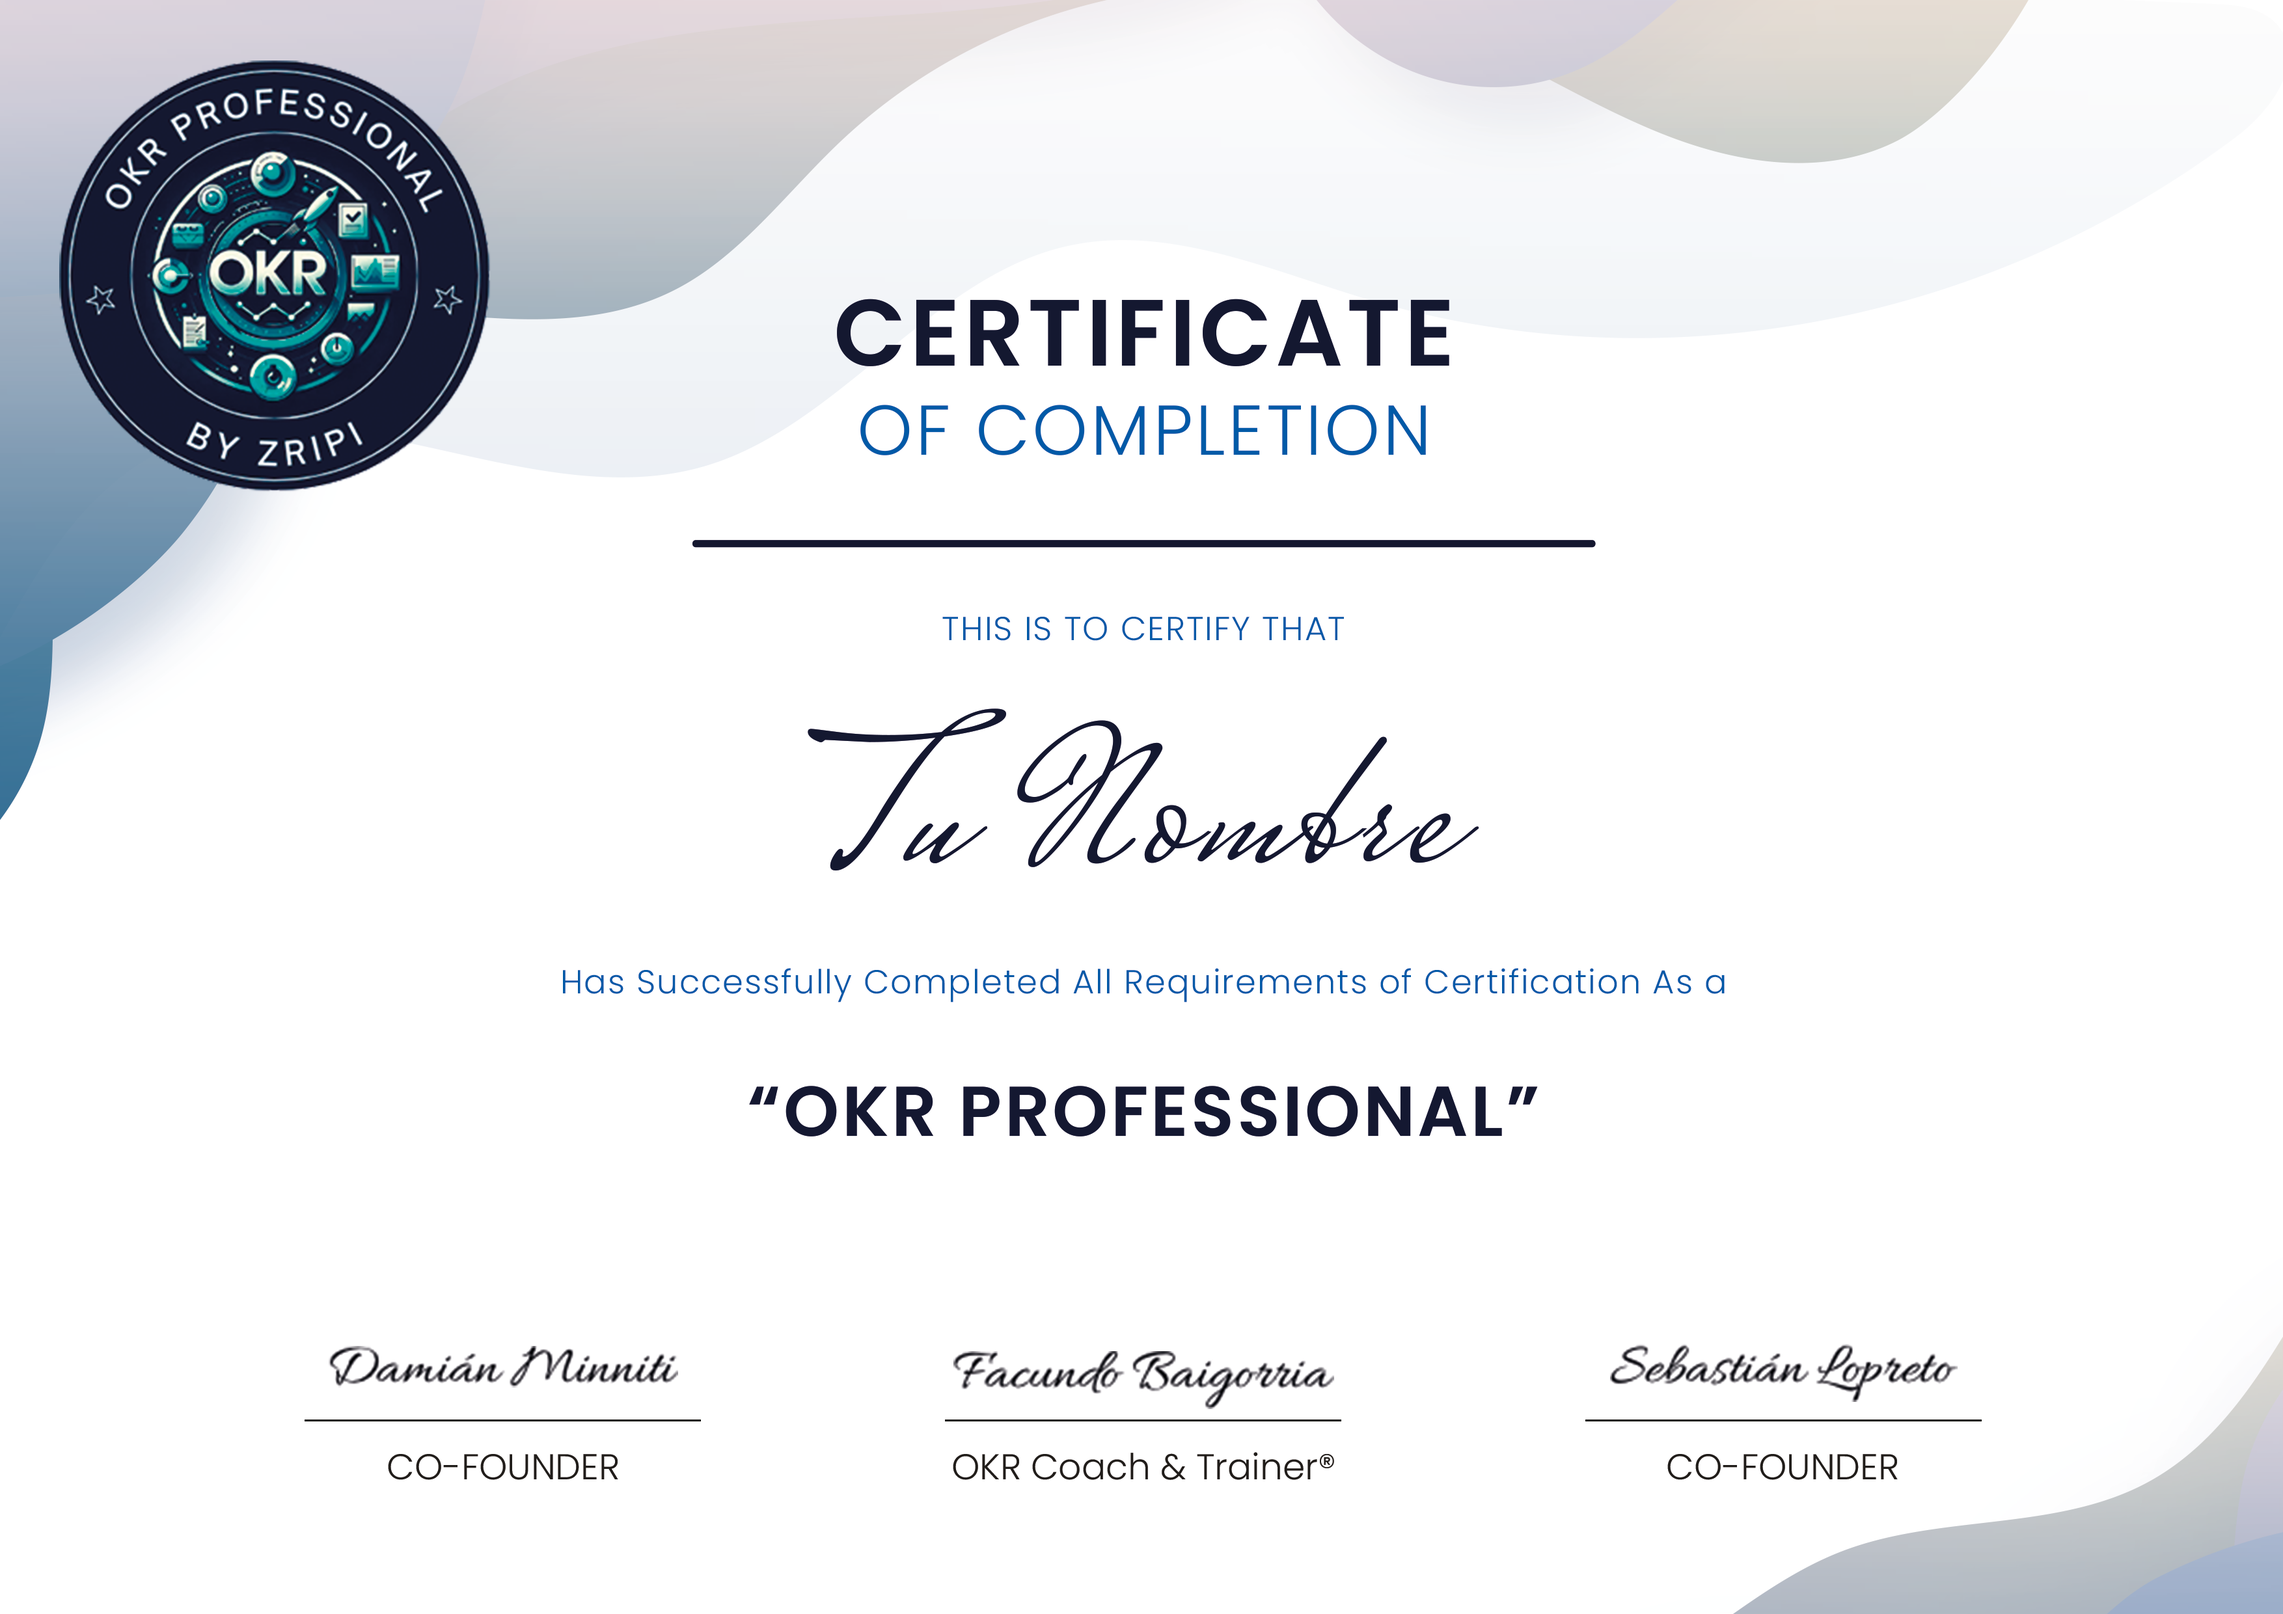
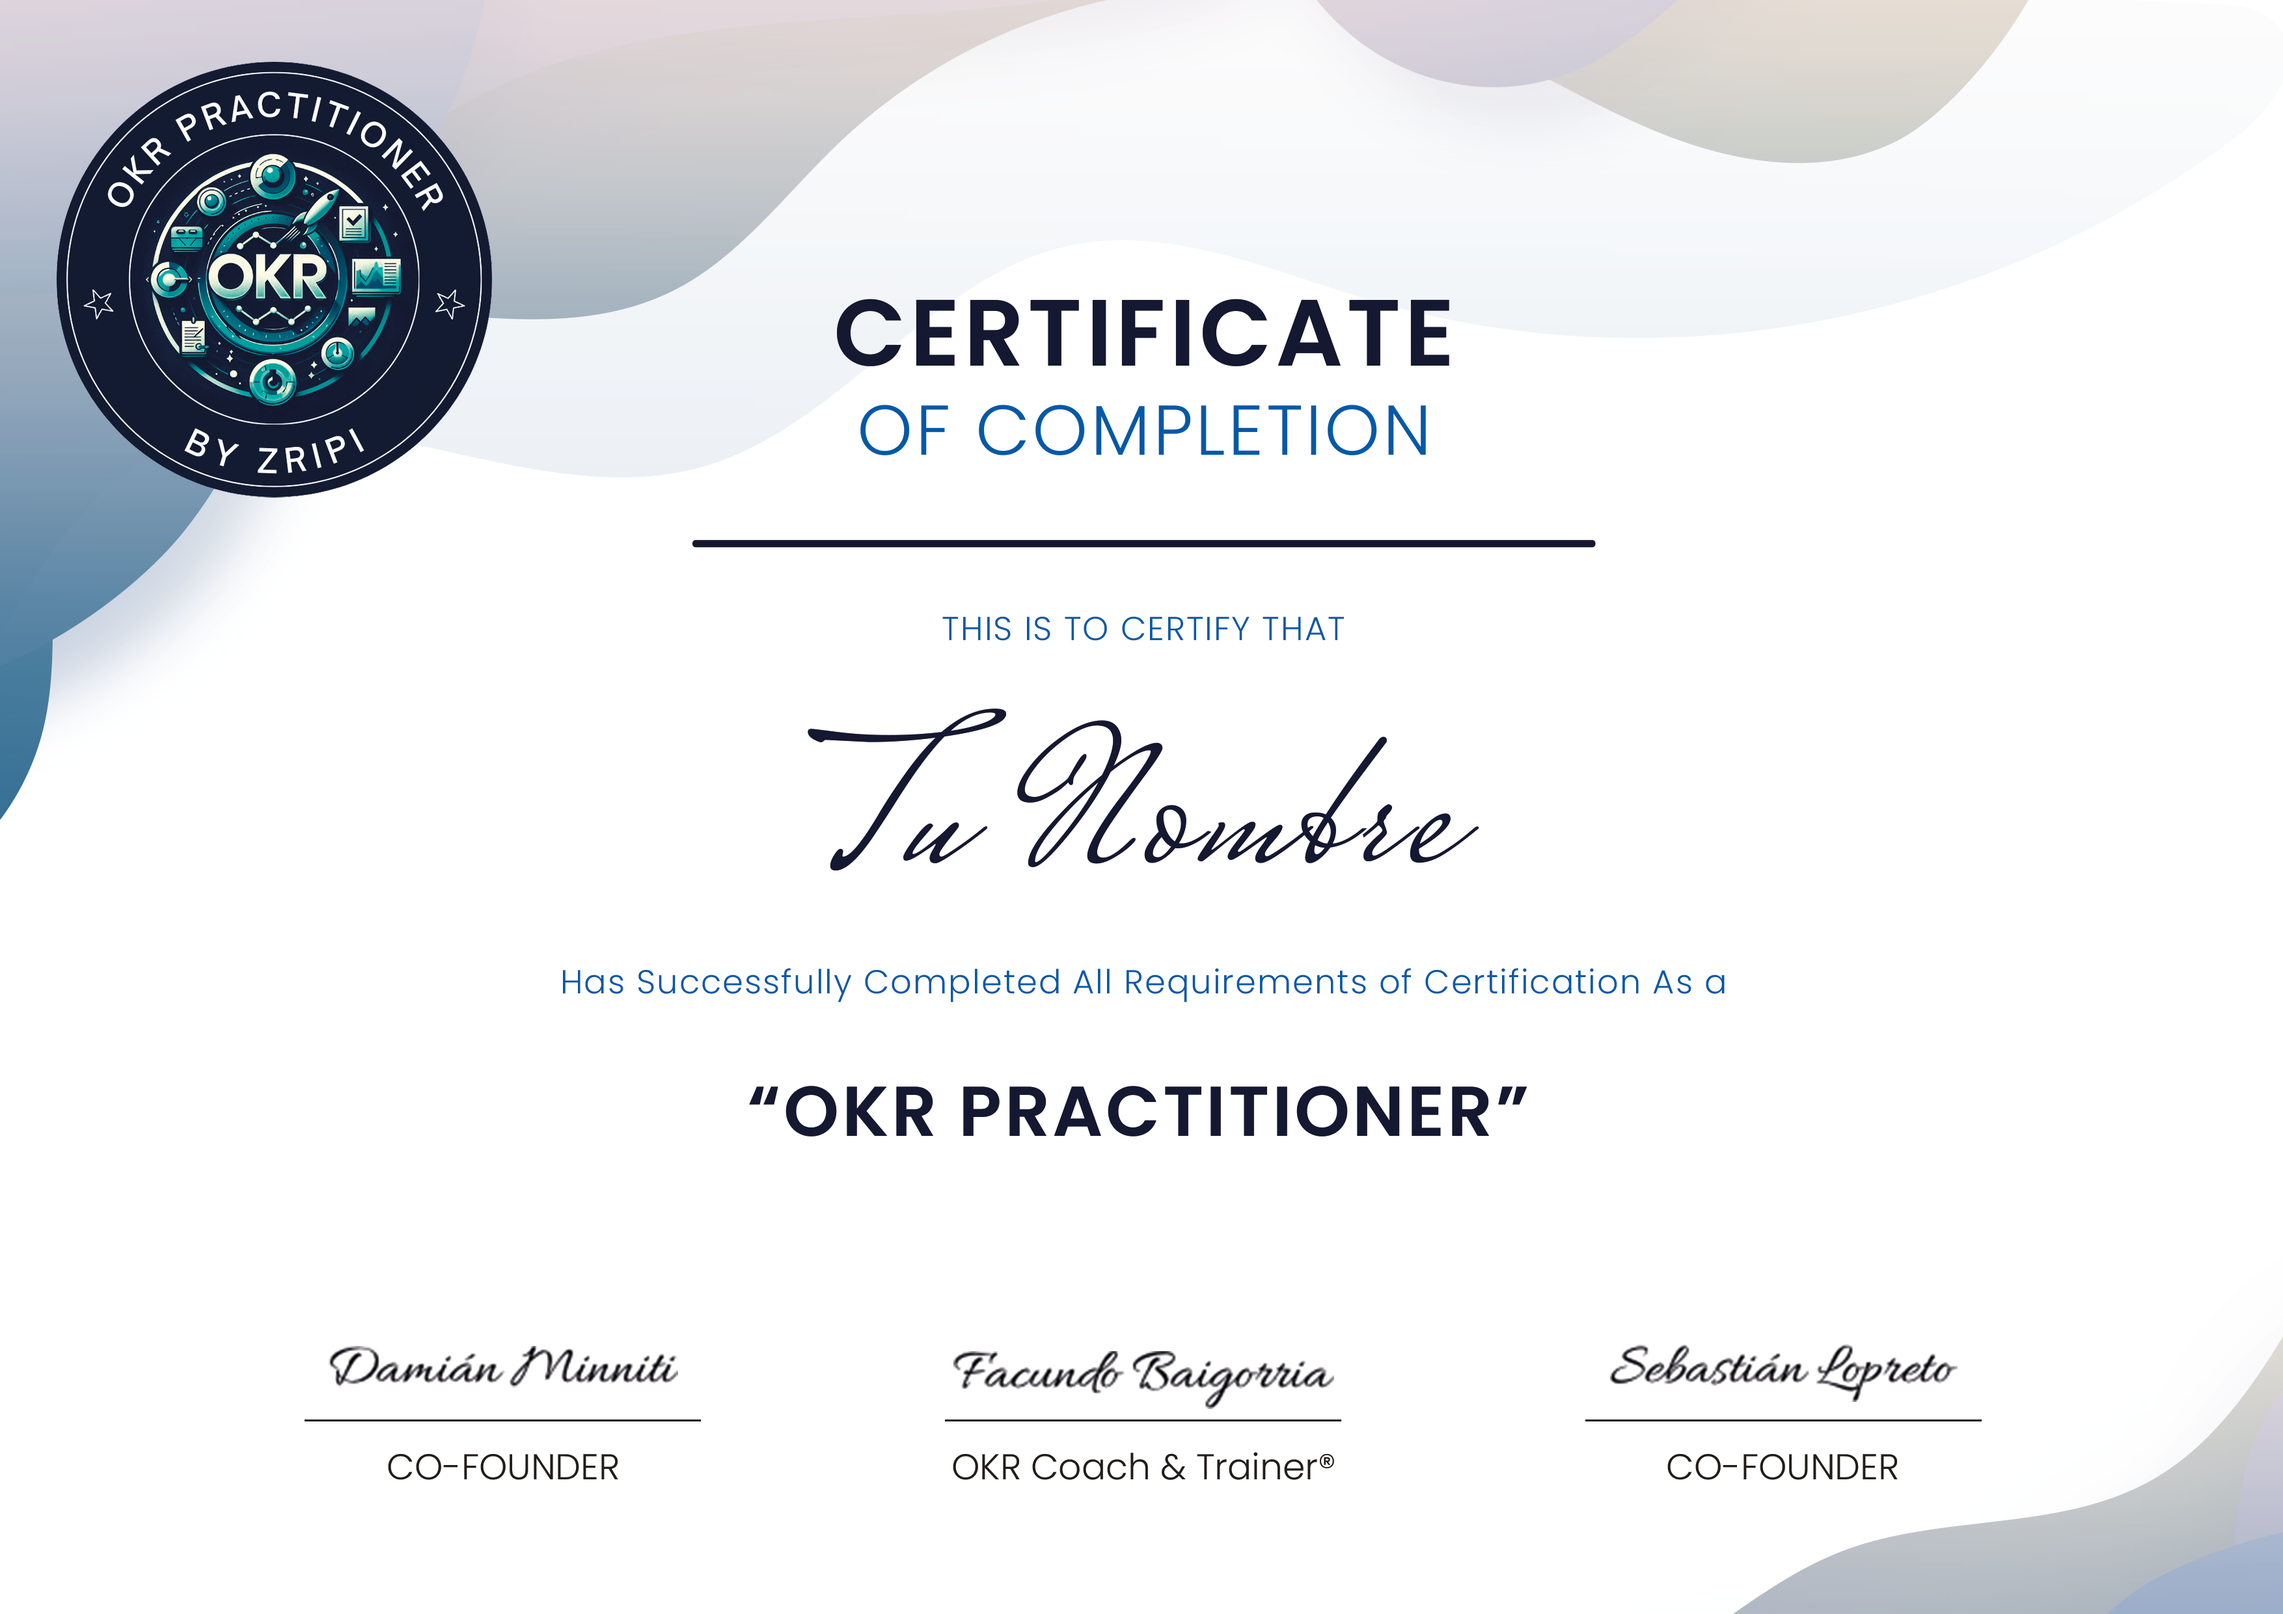
Fix OKR

Changed region(s): [[0.0, 0.031, 0.2175, 0.3104], [0.4661, 0.6518, 0.6836, 0.7138]]

diff --git a/scrumScale.html b/scrumScale.html
@@ -194,7 +194,7 @@ DIVIDER | INSCRIPCIÓN
 <!--==========================
 MODULO | FECHAS Y COSTOS
 ============================-->
-<!--<section>
+<section>
     <div class="container about-container wow fadeInUp">
 
         <div class="row" style="margin-top: 40px;">
@@ -210,17 +210,17 @@ MODULO | FECHAS Y COSTOS
                 <ul class="list-group">
                     <li class="list-group-item">Contaremos con <strong>15 hs de clases en vivo</strong>
                     </li>
-                    <li class="list-group-item">Lunes 9 de Octubre de 18:00 Hs a 21:00 Hs (UTC-3)</li>
-                    <li class="list-group-item">Miércoles 11 de Octubre de 18:00 Hs a 21:00 Hs (UTC-3)</li>
-                    <li class="list-group-item">Miércoles 18 de Octubre de 18:00 Hs a 21:00 Hs (UTC-3)</li>
-                    <li class="list-group-item">Lunes 23 de Octubre de 18:00 Hs a 21:00 Hs (UTC-3)</li>
-                    <li class="list-group-item">Miércoles 25 de Octubre de 18:00 Hs a 21:00 Hs (UTC-3)</li>
+                    <li class="list-group-item">Miércoles 29 de Mayo de 18:00 Hs a 21:00 Hs (UTC-3)</li>
+                    <li class="list-group-item">Miércoles 5 de Junio de 18:00 Hs a 21:00 Hs (UTC-3)</li>
+                    <li class="list-group-item">Miércoles 12 de Junio de 18:00 Hs a 21:00 Hs (UTC-3)</li>
+                    <li class="list-group-item">Miércoles 19 de Junio de 18:00 Hs a 21:00 Hs (UTC-3)</li>
+                    <li class="list-group-item">Miércoles 26 de Junio de 18:00 Hs a 21:00 Hs (UTC-3)</li>
                 </ul>
 
                 </p>
             </div>
 
-            &lt;!&ndash;PRECIO EARLY BIRD&ndash;&gt;
+            <!--PRECIO EARLY BIRD-->
             <div class="col-md-6">
 
                 <h2 class="section-title" style="color: #CC0205 !important;">💳 Inversión</h2>
@@ -229,16 +229,11 @@ MODULO | FECHAS Y COSTOS
                 <p class="about-text text-center">
 
                 <ul class="list-group">
-                    <li class="list-group-item">🙌 Primeros 5 inscriptos:
-                        <strong>180.000 ARS | 500 USD</strong></li>
+                    <li id="promo" value="300" class="list-group-item">🙌 Precio Promocional:
+                        <strong>300 USD</strong> <strong id="precioPromo"></strong></li>
 
-                    &lt;!&ndash; style="text-decoration:line-through;"&ndash;&gt;
 
-                    <li class="list-group-item">💲 Precio regular:
-                        <strong>234.000 ARS | 650 USD</strong>
-                    </li>
-
-                                        <li class="list-group-item">💬 Facilidades de pago | <a
+                    <li class="list-group-item">💬 Facilidades de pago | <a
                             href="https://wa.me/5491155010351?text=Hola%20Zripi!"
                             target="_blank"><strong>CONSULTAR</strong></a>
                     </li>
@@ -254,8 +249,8 @@ MODULO | FECHAS Y COSTOS
                     </li>
                     <li class="list-group-item">🇦🇷 Mercado Pago <strong>(Hasta en 3 cuotas sin interés</strong>)
                     </li>
-                    <li class="list-group-item">🌏 PayPal&lt;!&ndash;:
-                        <a class="mercadopago-btn" href="https://www.paypal.com/paypalme/drminniti" target="_blank">Pagar</a>&ndash;&gt;
+                    <li class="list-group-item">🌏 PayPal<!--:
+                        <a class="mercadopago-btn" href="https://www.paypal.com/paypalme/drminniti" target="_blank">Pagar</a>-->
                     </li>
 
                 </ul>
@@ -266,12 +261,12 @@ MODULO | FECHAS Y COSTOS
         </div>
 
     </div>
-</section>-->
+</section>
 
-<!--==========================
+==========================
 DIVIDER | INSCRIPCIÓN
-============================-->
-<!--<section id="custom-title">
+============================
+<section id="custom-title">
     <div class="container wow fadeInUp">
         <div class="row text-center">
             <div class="col-md-offset-2 col-md-8">
@@ -281,7 +276,7 @@ DIVIDER | INSCRIPCIÓN
             </div>
         </div>
     </div>
-</section>-->
+</section>
 
 <!--==========================
 MODULE | FACILITADORES & IMAGENES
@@ -727,6 +722,8 @@ FOOTER
 </a>
 
 <a href="#" class="back-to-top"><i class="fa fa-chevron-up"></i></a>
+
+<script src="js/cotizacionOtros.js"></script>
 
 <!-- Required JavaScript Libraries -->
 <script src="lib/jquery/jquery.min.js"></script>

diff --git a/okr.html b/okr.html
@@ -123,7 +123,7 @@ COVER
             </div>
 
             <div class="col-md-12">
-                <h3 class="subscribe-title">OKR PROFESSIONAL</h3>
+                <h3 class="subscribe-title">OKR PRACTITIONER</h3>
                 <h5 style="color: white;">100% ONLINE</h5>
             </div>
 
@@ -142,7 +142,7 @@ MODULE | INTRO
 
             <div class="col-md-12">
                 <h3 class="text-center" style="color: #001439 !important; margin-top: 30px;"><strong>🏅 OKR
-                    PROFESSIONAL
+                    PRACTITIONER
                 </strong></h3>
                 <div class="section-title-divider" style="background-color: #001439 !important;"></div>
                 <p class="about-text text-center">
@@ -333,7 +333,7 @@ DIVIDER | INSCRIPCIÓN
 <!--==========================
 MODULO | FECHAS Y COSTOS
 ============================-->
-<section>
+<!--<section>
     <div class="container about-container wow fadeInUp">
 
         <div class="row" style="margin-top: 40px;">
@@ -369,9 +369,9 @@ MODULO | FECHAS Y COSTOS
                     <li id="promo" value="185" class="list-group-item">🚀 Precio Lanzamiento:
                         <strong>200 USD | 200.000 ARS</strong> <strong id="precioPromo"></strong></li>
 
-                    <!--<li id="regular" value="220" class="list-group-item">💲 Precio regular:
+                    &lt;!&ndash;<li id="regular" value="220" class="list-group-item">💲 Precio regular:
                         <strong>280 USD | 280.000 ARS</strong> <strong id="precioRegular"></strong>
-                    </li>-->
+                    </li>&ndash;&gt;
 
                     <li class="list-group-item">💬 Facilidades de pago | <a
                             href="https://wa.me/5491154650775?text=Hola%20Zripi!"
@@ -400,7 +400,9 @@ MODULO | FECHAS Y COSTOS
         </div>
 
     </div>
-</section>
+</section>-->
+
+<br><br>
 
 <!--==========================
 DIVIDER | INSCRIPCIÓN

diff --git a/index.html b/index.html
@@ -395,7 +395,7 @@ background: linear-gradient(90deg, rgba(255,97,40,0.05) 0%, rgba(2,196,235,0) 47
                             class="label label-danger" style="display: inline-block;">SCRUM@SCALE</span>
                     <br><br>
                     <span><strong>Registered Scrum@Scale Practitioner™</strong></span>
-                    <span>¡Consultanos!</span>
+                    <span>¡Comienza el 29 de Mayo!</span>
                     <br>
                     <a href="scrumScale.html" target="_blank" class="btn btn-warning"
                        style="margin-top: 10px;">Ver más</a>
@@ -574,9 +574,9 @@ background: linear-gradient(90deg, rgba(255,97,40,0.05) 0%, rgba(2,196,235,0) 47
 
                     <br><br>
 
-                    <span><strong>OKR Professional</strong></span>
+                    <span><strong>OKR Practitioner</strong></span>
 
-                    <span>¡Comienza el xx de Junio!</span>
+                    <span>Próximamente</span>
                     <br>
                     <a href="okr.html" target="_blank" class="btn btn-warning"
                        style="margin-top: 10px;">Ver más</a>
